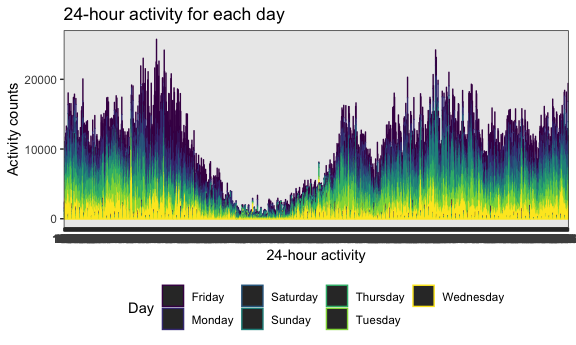
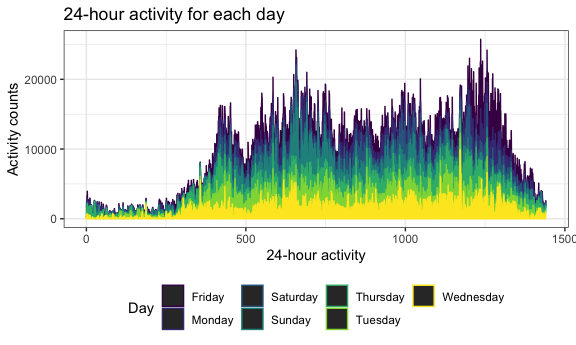
change the last  solution

diff --git a/p8105_hw3_yl4358.md b/p8105_hw3_yl4358.md
@@ -337,6 +337,9 @@ table_activity
 ``` r
 accel_data %>%
 group_by(week,day) %>% 
+  mutate(
+    activity_id = as.numeric(activity_id)
+  ) %>% 
   ggplot(aes(x = activity_id, y = activity_counts, color = day)) +
   geom_area() + 
   labs(
